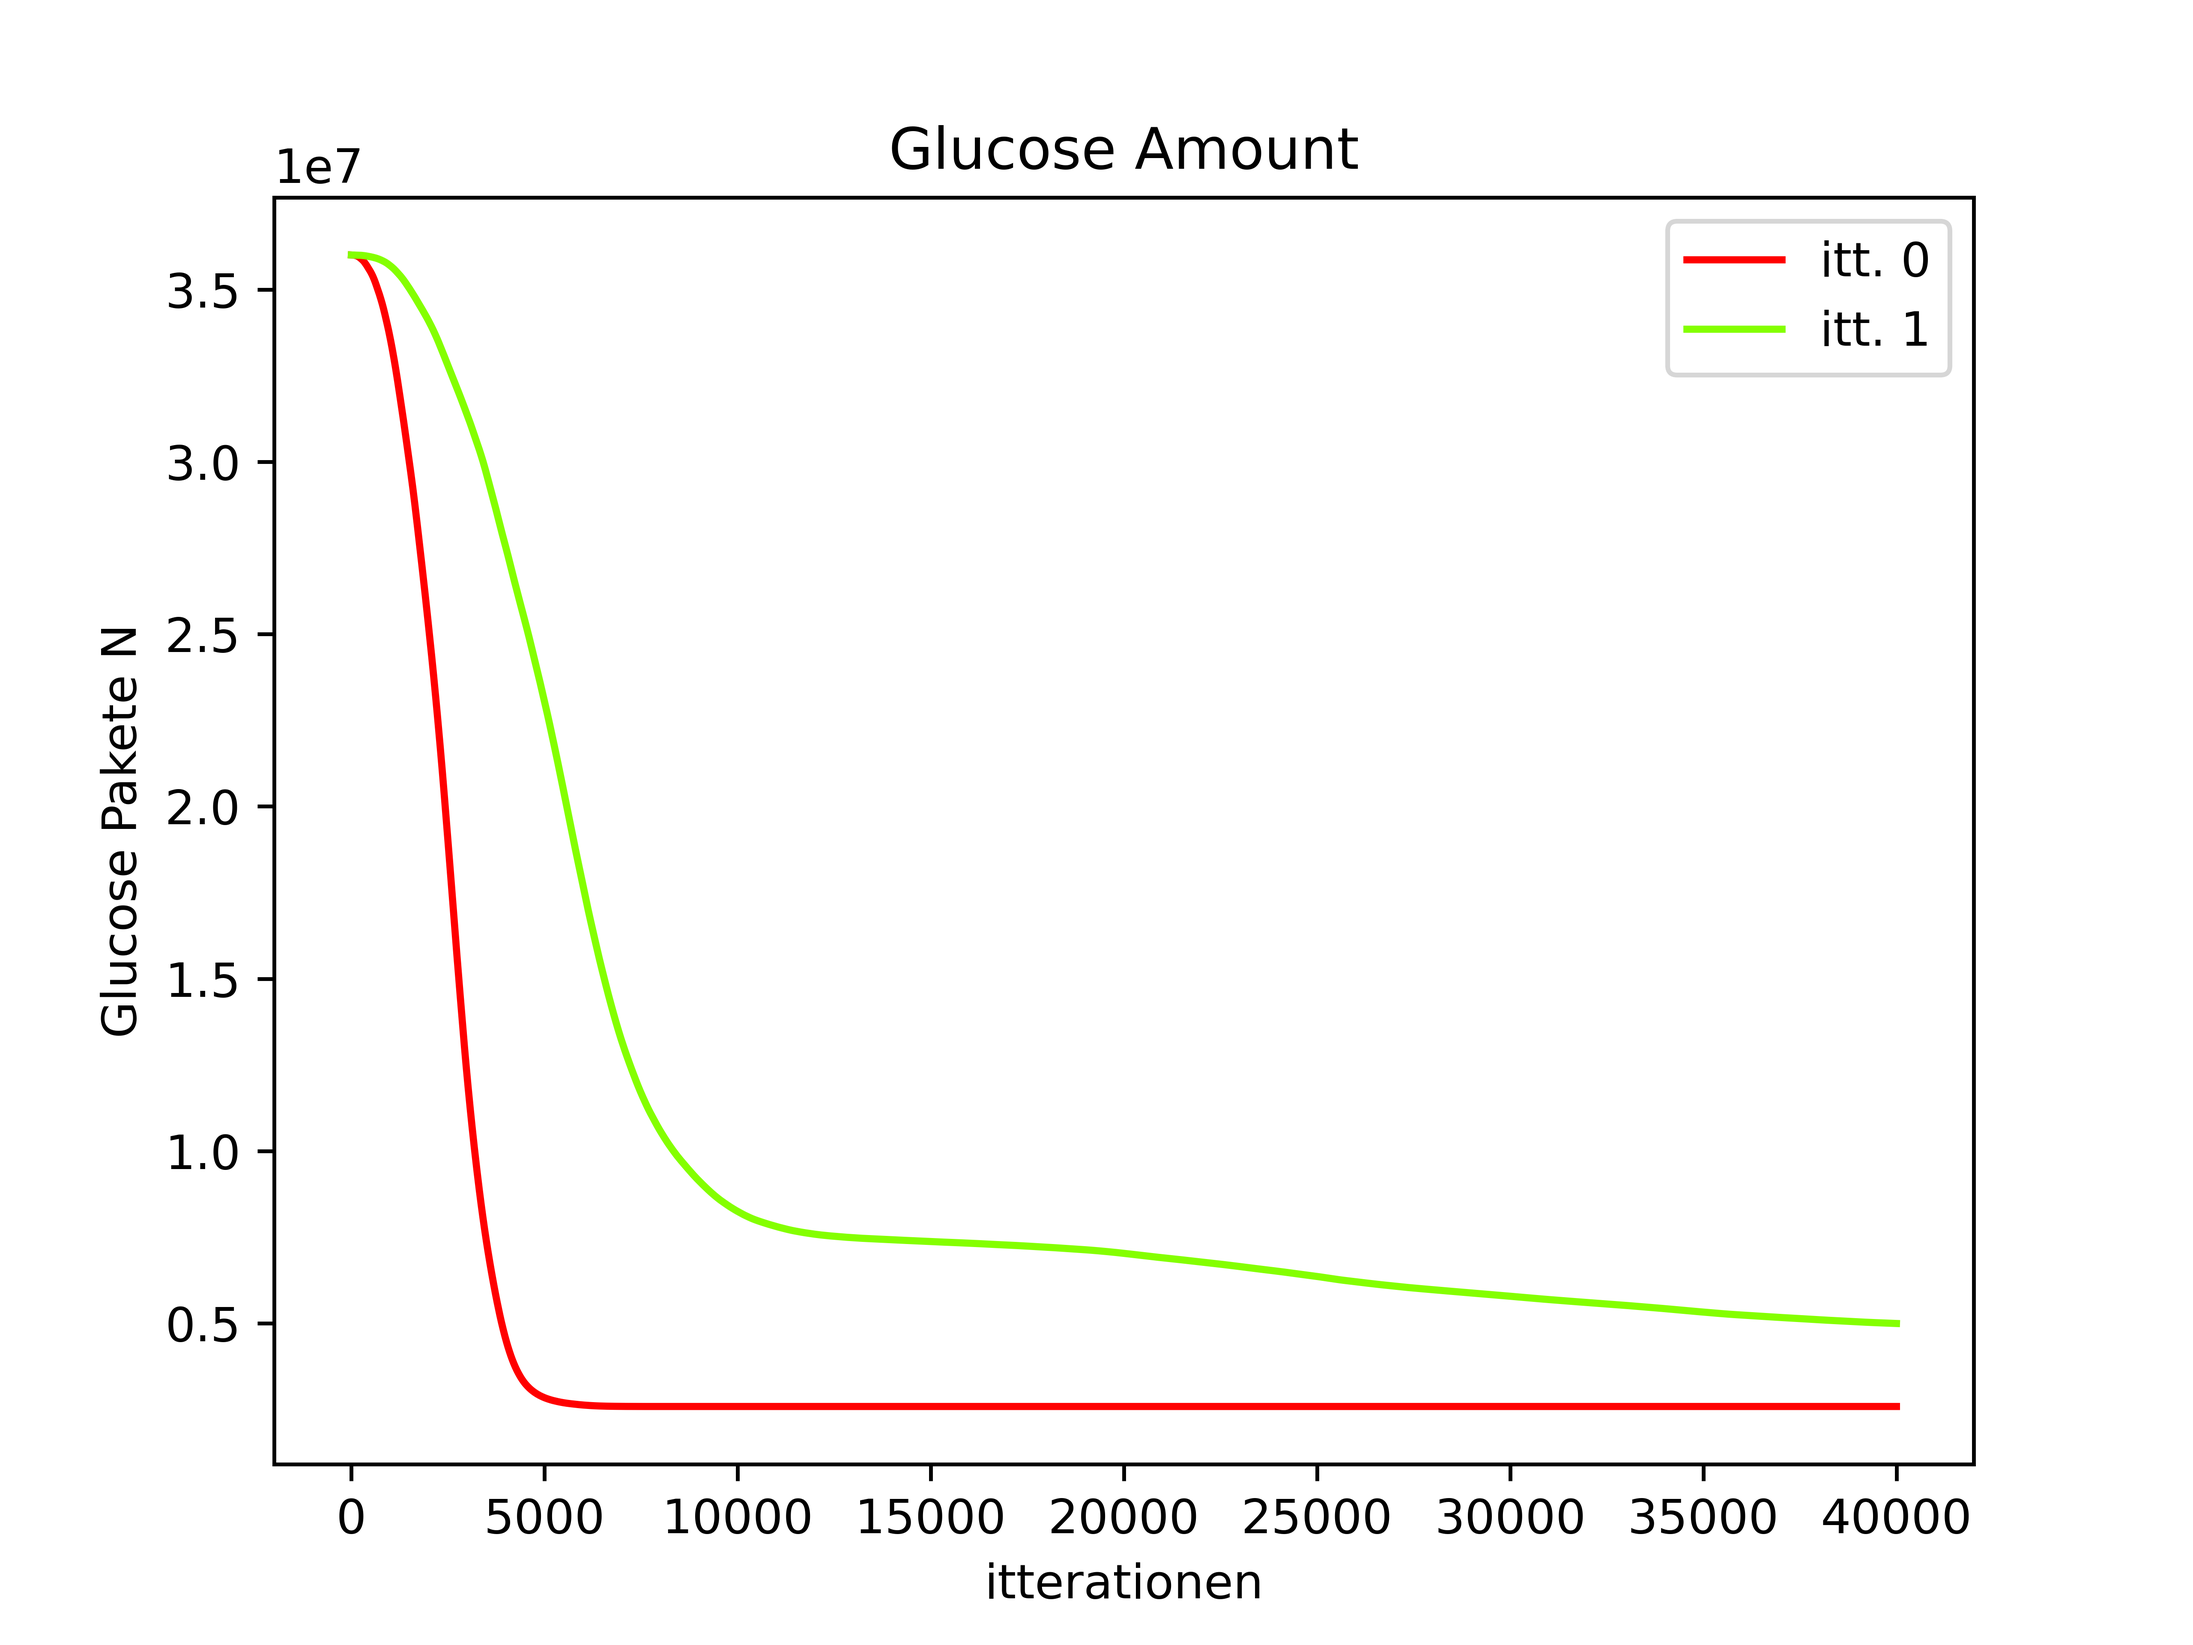
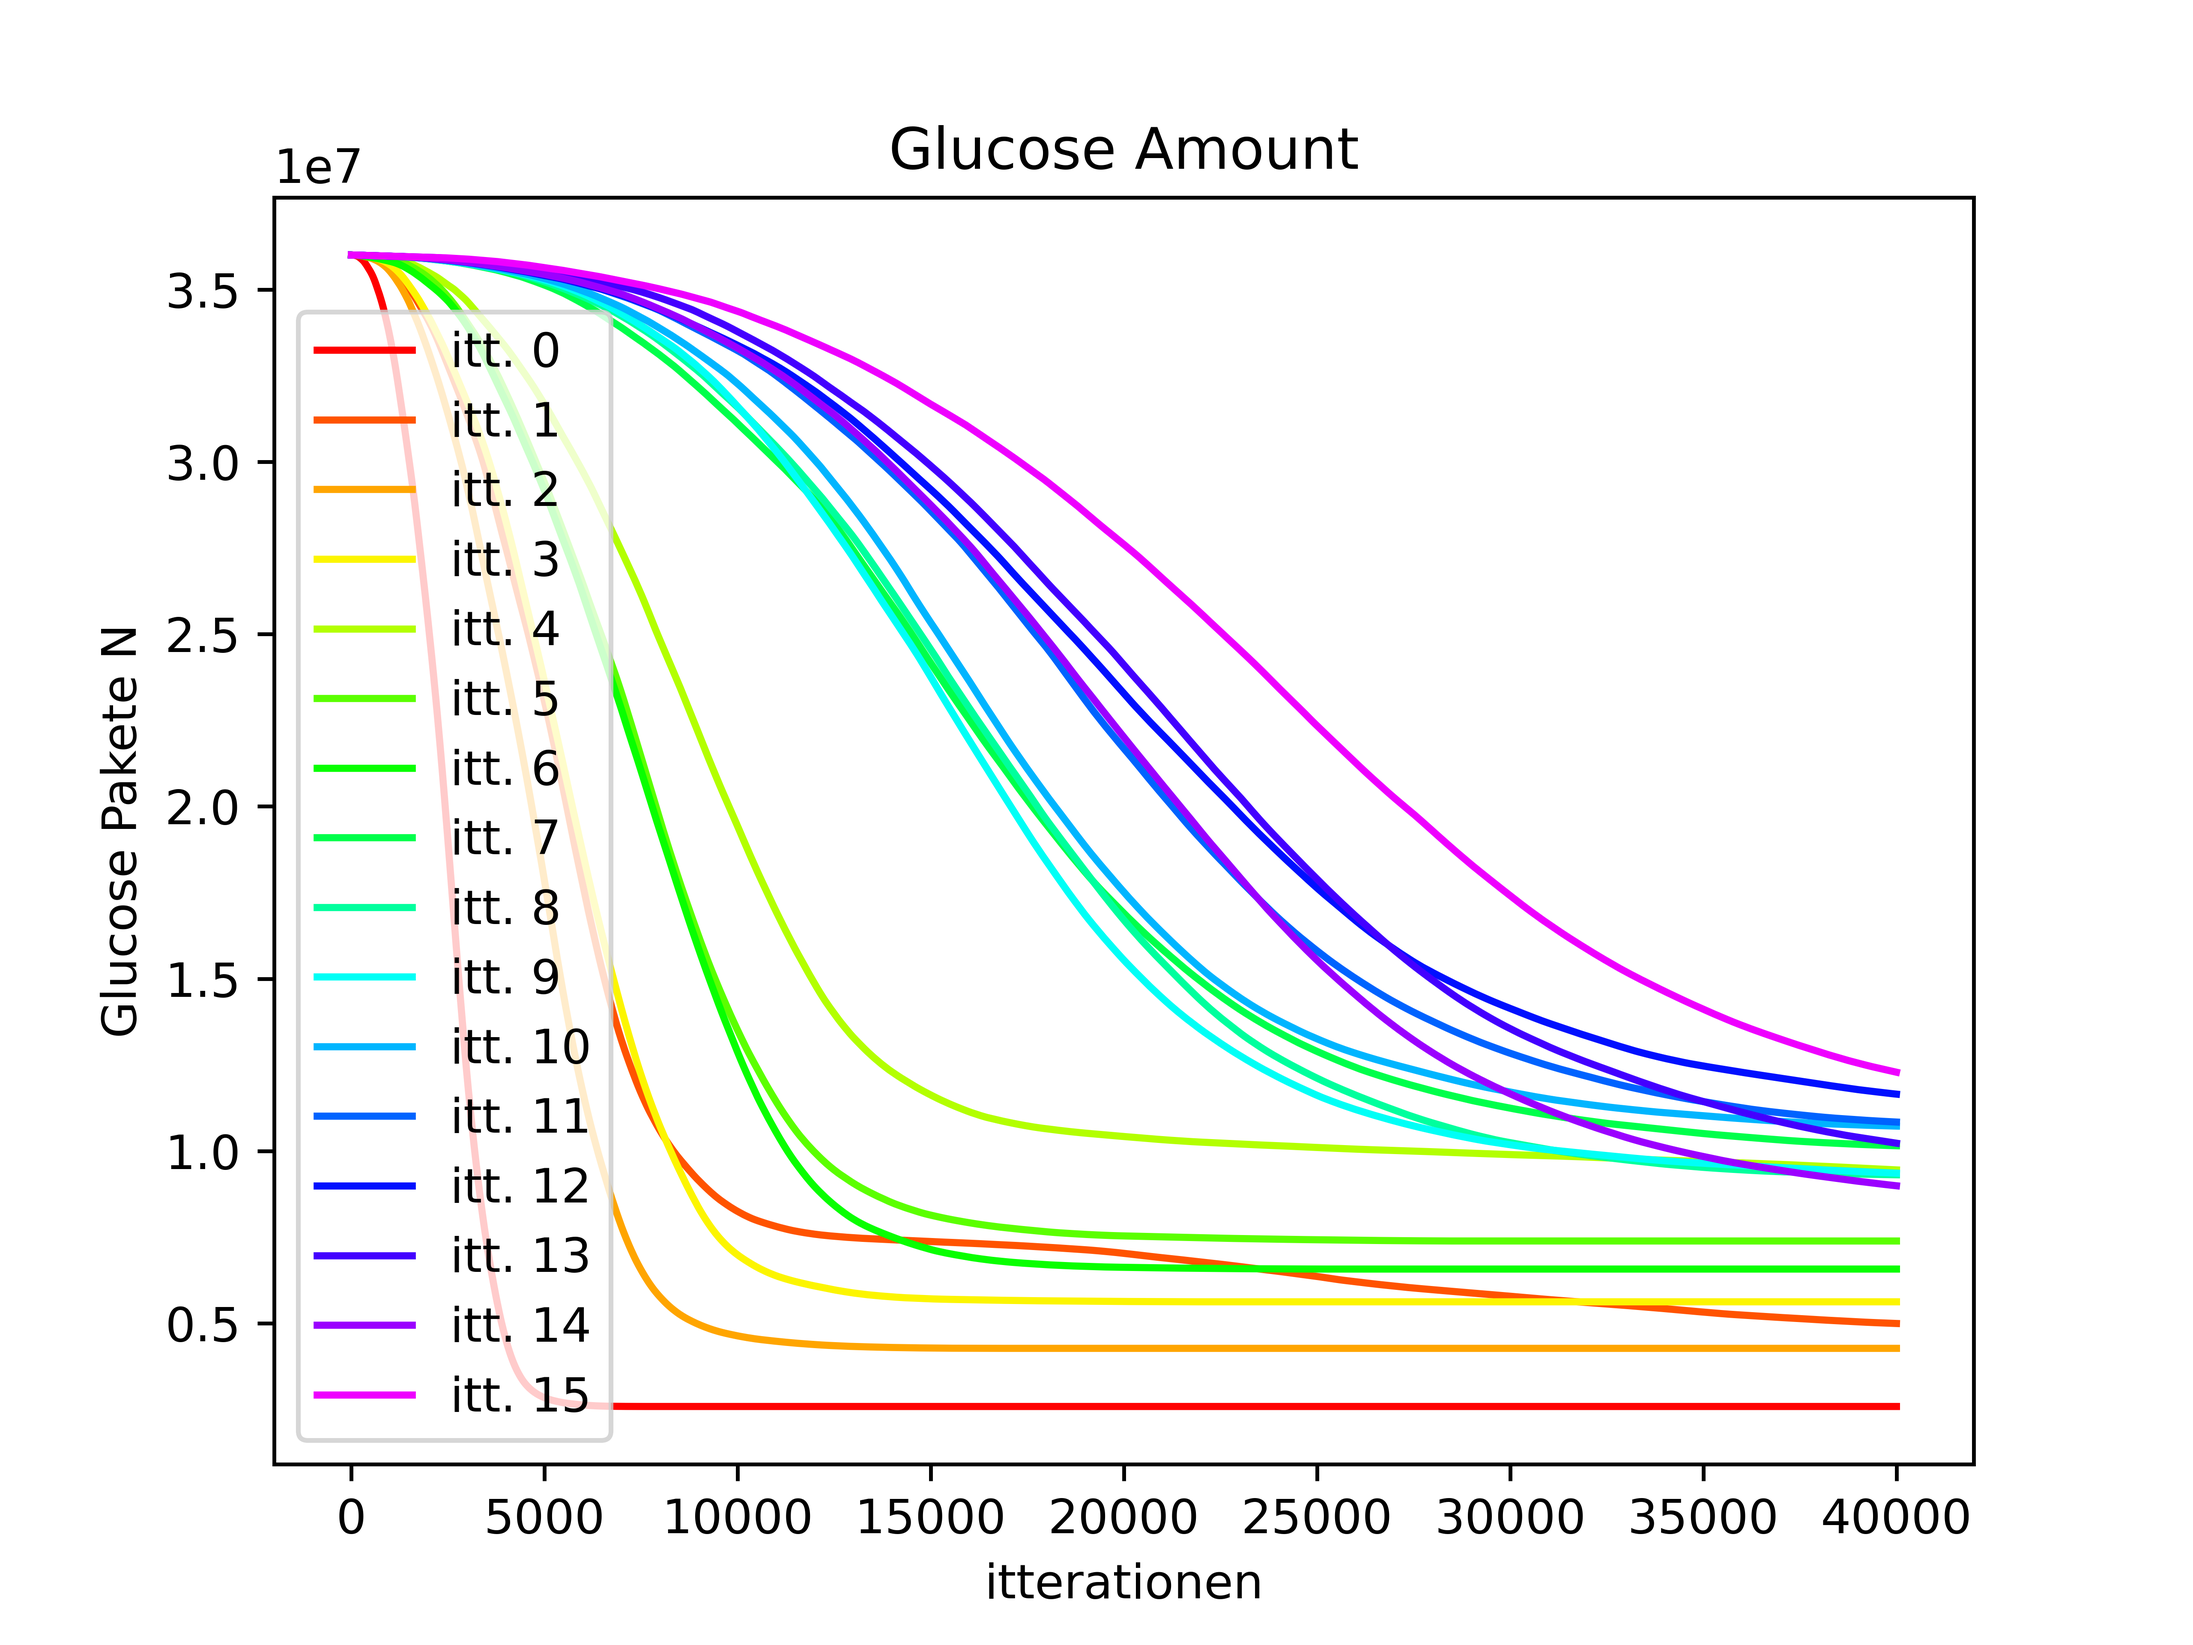
für Turan wurde gerechnet

diff --git a/plot-old-data.py b/plot-old-data.py
@@ -5,7 +5,7 @@ import matplotlib.cm as cm
 import numpy as np
 import scipy
 
-length = 2
+length = 16
 
 norm = color.Normalize(vmin=0, vmax=length+2)
 cmap = cm.hsv
